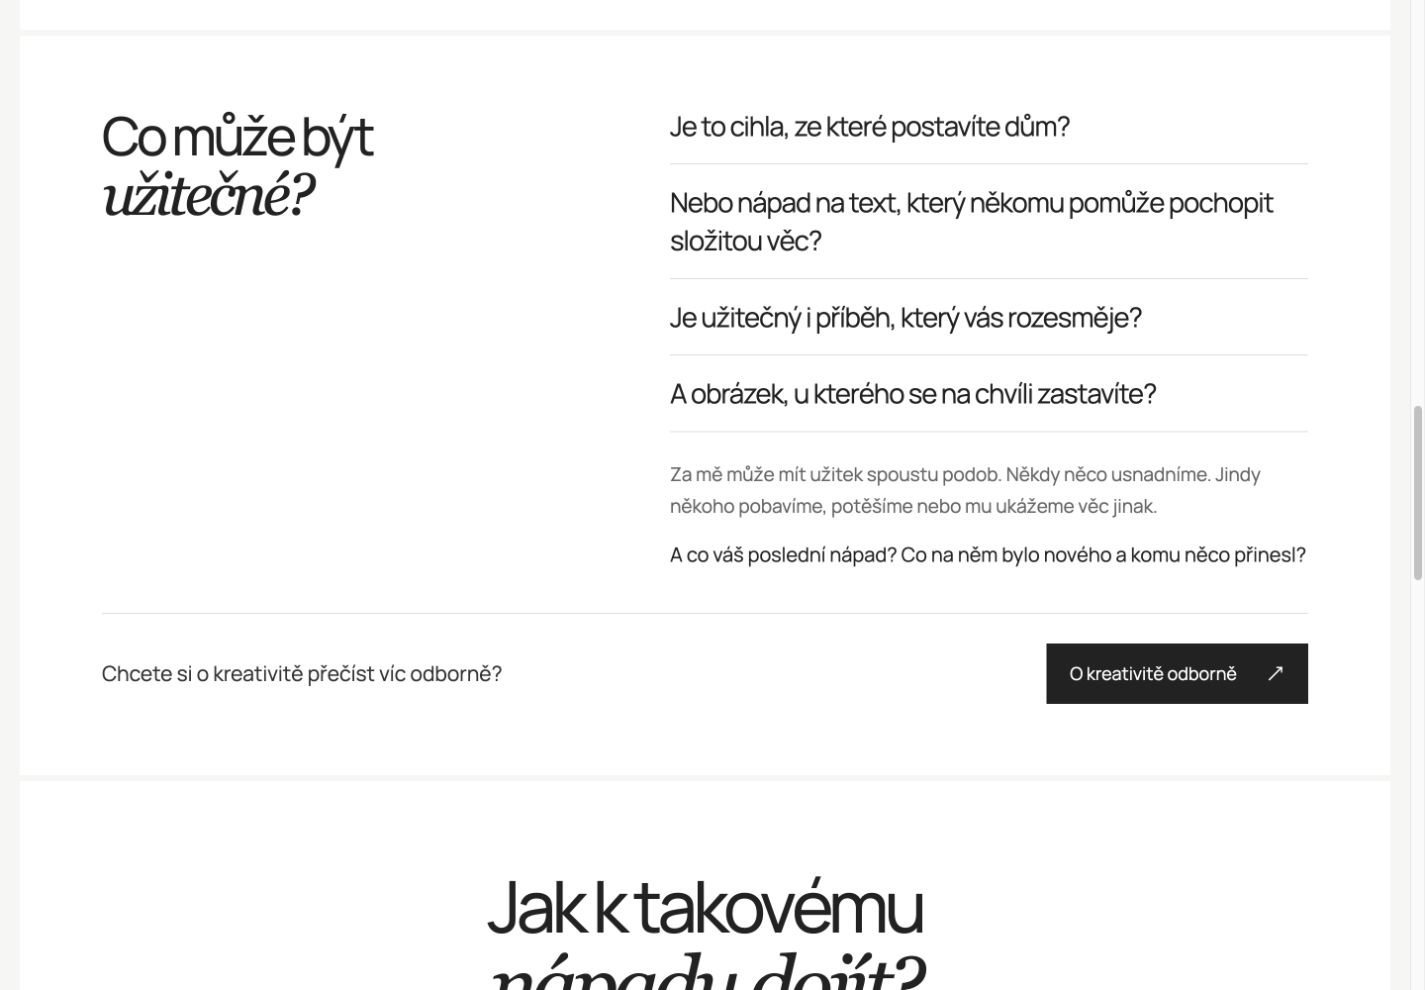
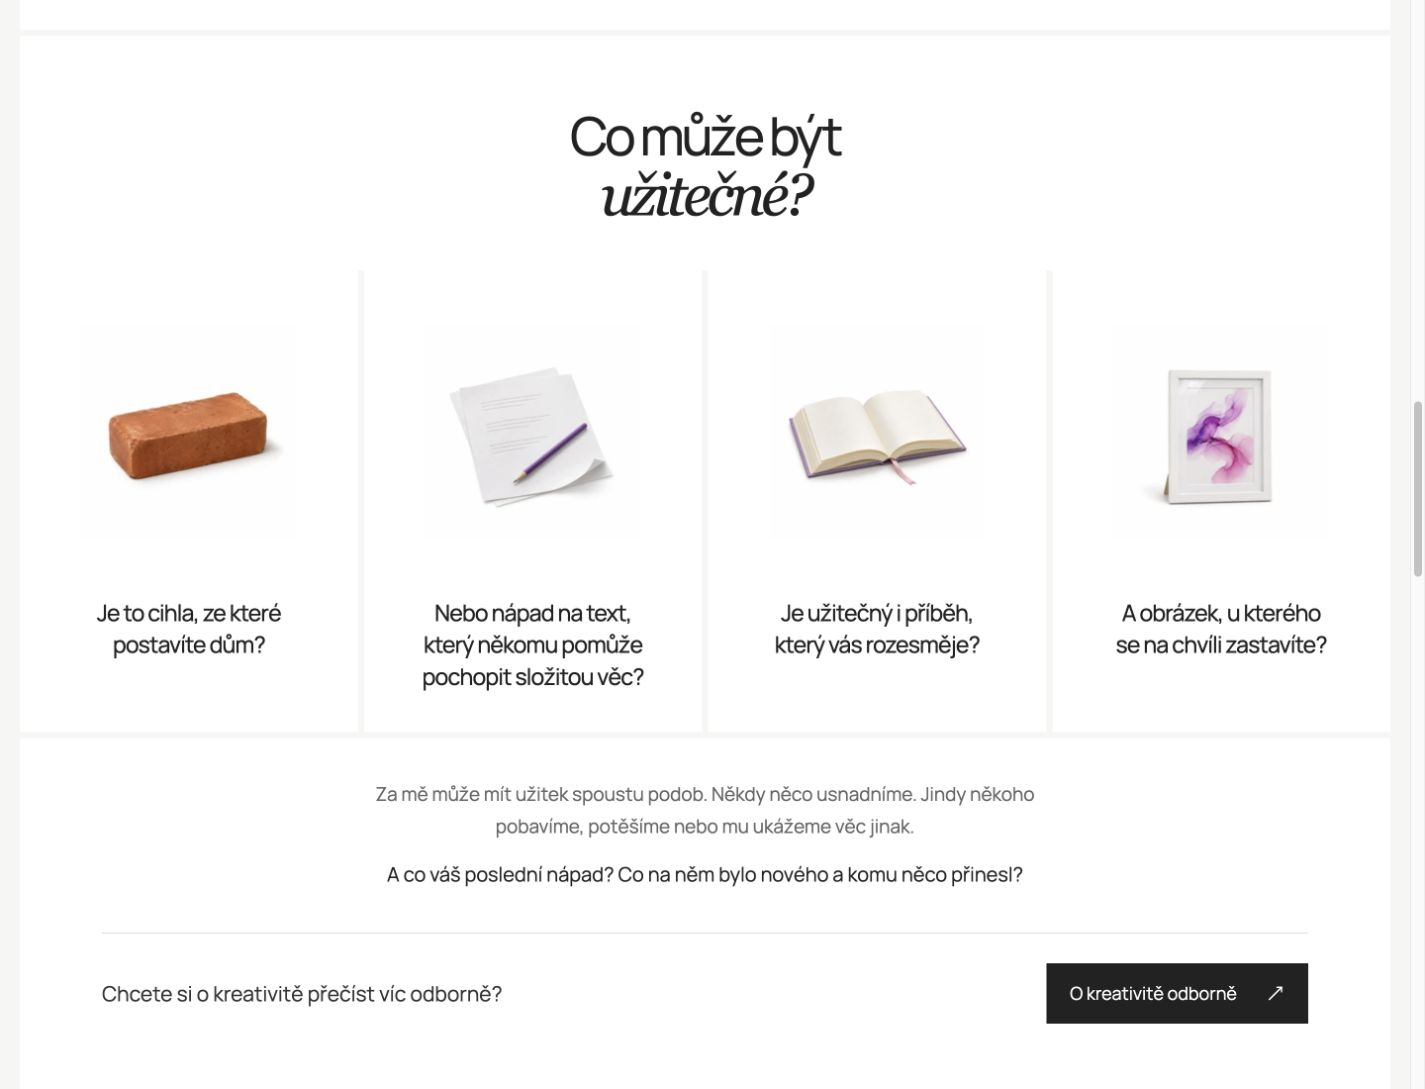
Prepracovat otazky na ctyri fotograficke dlazdice

diff --git a/docs/CREATIVITY-USEFULNESS-PHOTOS.md b/docs/CREATIVITY-USEFULNESS-PHOTOS.md
@@ -1,0 +1,42 @@
+# Čtyři podoby užitku — fotografické dlaždice
+
+Vytvořeno 8. 11. 2026 vestavěným ImageGen, čtyři samostatné generace bez vstupních obrázků. AI fotografické studie pro `/kreativec#co-je-uzitecne`, nikoli autorovy skutečné fotografie nebo ukázky vydaných knih. Čtyři fyzicky sestavitelné motivy na bílém pozadí: cihla, papír s tužkou, otevřená kniha a rám s abstraktním obrázkem. Obraz v rámečku je rovněž generovaný, nikoli Markova originální kresba. Barevnost přírodní cihly není oranžový UI akcent.
+
+Originály jsou zachované v úložišti generátoru. Do projektu zkopírované beze změny; responzivní WebP vytváří Astro. Bez ořezu, bez malých popisků, alternativní texty zůstávají. Všechny motivy mají stejný centrovaný prostor a omezenou šířku, aby kolem zůstala bílá plocha.
+
+## uzitek-cihla-v1.png
+
+- Projektový asset: `src/assets/creative-still-life/uzitek-cihla-v1.png`.
+- Původní výstup: `/Users/marekstojka/.codex/generated_images/01a1ba56-3719-7482-898a-03a733e8f283/exec-77063df6-ddbb-41fa-989b-663a0728acef.png`.
+
+### Přesný prompt
+
+Use case: product-mockup. Asset type: one photographic tile for a minimalist Czech creativity website. Create a photorealistic still-life studio photograph, square composition. Seamless pure white floor and pure white background #ffffff, no horizon line. Soft large studio light from upper left, delicate realistic contact shadow, neutral white balance, natural material textures, catalog-quality photography. Show the entire arrangement centered, occupying about 68 percent of the frame width and at most 65 percent of its height. Generous clean white space on all sides. The objects must be physically real and easy to arrange for an actual photograph. No people, hands, logos, lettering, watermark, borders, extra props, surreal floating elements, or illustration. Subject: a single ordinary solid reddish-brown clay building brick, lying horizontally on its broad side, seen in a three-quarter view slightly from above. No holes. Subtle worn corners and fine porous clay texture. Simple solid useful building material, no stack or background building.
+
+## uzitek-text-v1.png
+
+- Projektový asset: `src/assets/creative-still-life/uzitek-text-v1.png`.
+- Původní výstup: `/Users/marekstojka/.codex/generated_images/01a1ba56-3719-7482-898a-03a733e8f283/exec-586383be-81de-4e7e-a7a3-325626c1a259.png`.
+
+### Přesný prompt
+
+Use case: product-mockup. Asset type: one photographic tile for a minimalist Czech creativity website. Create a photorealistic still-life studio photograph, square composition. Seamless pure white floor and pure white background #ffffff, no horizon line. Soft large studio light from upper left, delicate realistic contact shadow, neutral white balance, natural material textures, catalog-quality photography. Show the entire arrangement centered, occupying about 68 percent of the frame width and at most 65 percent of its height. Generous clean white space on all sides. The objects must be physically real and easy to arrange for an actual photograph. No people, hands, logos, lettering, watermark, borders, extra props, surreal floating elements, or illustration. Subject: two sheets of white writing paper resting on the surface, the top sheet slightly offset and softly curling at one corner, with a single sharpened purple wooden pencil resting diagonally across them. A few small thin gray horizontal marks on the paper suggest three short paragraphs, but there is no readable text. Three-quarter camera view slightly from above. Real paper fibers and pencil wood, quiet clean still life about explaining an idea in writing.
+
+## uzitek-pribeh-v1.png
+
+- Projektový asset: `src/assets/creative-still-life/uzitek-pribeh-v1.png`.
+- Původní výstup: `/Users/marekstojka/.codex/generated_images/01a1ba56-3719-7482-898a-03a733e8f283/exec-91aa0ccd-7c37-4c7a-abbd-d28db53cc7d0.png`.
+
+### Přesný prompt
+
+Use case: product-mockup. Asset type: one photographic tile for a minimalist Czech creativity website. Create a photorealistic still-life studio photograph, square composition. Seamless pure white floor and pure white background #ffffff, no horizon line. Soft large studio light from upper left, delicate realistic contact shadow, neutral white balance, natural material textures, catalog-quality photography. Show the entire arrangement centered, occupying about 68 percent of the frame width and at most 65 percent of its height. Generous clean white space on all sides. The objects must be physically real and easy to arrange for an actual photograph. No people, hands, logos, lettering, watermark, borders, extra props, surreal floating elements, or illustration. Subject: one small open hardback book resting naturally on the white surface, with cream-white blank paper pages, a thin violet cloth cover edge and one subtle pink ribbon bookmark. Its pages gently fan and curve at the center. No text, symbols or drawings on the pages or binding. Three-quarter camera view slightly from above, full book visible. A warm playful but simple ordinary book that represents a story.
+
+## uzitek-obrazek-v1.png
+
+- Projektový asset: `src/assets/creative-still-life/uzitek-obrazek-v1.png`.
+- Původní výstup: `/Users/marekstojka/.codex/generated_images/01a1ba56-3719-7482-898a-03a733e8f283/exec-a8571abf-08e4-4c04-850b-1f31aff01fff.png`.
+
+### Přesný prompt
+
+Use case: product-mockup. Asset type: one photographic tile for a minimalist Czech creativity website. Create a photorealistic still-life studio photograph, square composition. Seamless pure white floor and pure white background #ffffff, no horizon line. Soft large studio light from upper left, delicate realistic contact shadow, neutral white balance, natural material textures, catalog-quality photography. Show the entire arrangement centered, occupying about 68 percent of the frame width and at most 65 percent of its height. Generous clean white space on all sides. The objects must be physically real and easy to arrange for an actual photograph. No people, hands, logos, lettering, watermark, borders, extra props, surreal floating elements, or illustration. Subject: one small freestanding rectangular white wooden picture frame, portrait orientation, viewed almost front-on with a very slight three-quarter angle. It rests securely on its hidden rear easel stand on the white surface. Inside the frame is a physical fine-art print with an original simple flowing abstract violet and magenta ink shape on white paper, expressive but minimal with generous margins. Subtle real wood texture, clean white mount, very soft reflection on glass. The entire frame is fully visible. This is a photograph of a real framed art print, not a flat graphic or UI mockup.
+

diff --git a/docs/DESIGN.md b/docs/DESIGN.md
@@ -722,3 +722,12 @@ Ověřeno 1440/800/390/320 px bez vodorovného přesahu, šest příkladů, zaro
 ## Mírné zvětšení papírové květiny — 8. 11. 2026
 
 Autor po zhlédnutí nové fotografie požádal ještě o její mírné zvětšení. Šířka v MagazineIntroduction.astro je nyní maximálně 500 px místo 400 px (+25 %), na mobilu 84 % dostupného prostoru / nejvýše 320 px místo 72 % / 280 px. Zdrojová fotografie, poměr na výšku, bílé pozadí a centrování zůstávají. Responzivní varianty 320/600/1000 px odpovídají novému zobrazení. Ověřeno 1440 a 390 px bez vodorovného přesahu; fotografie se zobrazuje celá. Produkční build úspěšný: 105 souborů bez chyb/varování, 81 HTML a 2608 místních URL. Náhled i kontrolní kopie synchronizované; snímky v README aktualizované. Push je součástí trvalého pokynu autora.
+
+
+## Čtyři fotografické dlaždice užitku — 8. 11. 2026
+
+Autor mění sekci „Co může být užitečné?“ na centrovaný nadpis a čtyři fotografické dlaždice vedle sebe. CreativityIntroduction.astro nyní používá čtyři nové AI fotografické studie: samostatnou cihlu, listy papíru s fialovou tužkou, otevřenou knihu s růžovou záložkou a bílý rám s fialovým/růžovým abstraktním obrázkem. Jde o fyzicky sestavitelné předměty na čistém bílém pozadí, nikoli o autorské fotografie či Markovu kresbu. Původ, projektové cesty a přesné prompty v CREATIVITY-USEFULNESS-PHOTOS.md. Bez malých popisků.
+
+Nadpis je uprostřed nad celou řadou. Bílé dlaždice odděluje původní šedá spára 6 px / 5 px mobil. Každá má stejně vysoký obrazový prostor a centrovanou fotografii nejvýše 230 px širokou; na mobilu nejvýše 210 px. Celé motivy bez ořezu, s dostatkem bílého okolí. Otázky začínají ve stejné výšce a jejich znění se nemění. Čtyři sloupce nad 1100 px, dva do 1100 px, jeden do 700 px. Pod řadou je vycentrované původní vysvětlení a zachovaný odkaz do odborné rubriky. Horní definice kreativity zůstává beze změny.
+
+Ověřeno 1440/800/390/320 px bez vodorovného přesahu, všechny čtyři fotografie načtené, shodné šířky dlaždic a zarovnané otázky. Proklik do odborné rubriky Enterem a návrat přes ClientRouter funkční. Produkční build úspěšný: 105 souborů bez chyb/varování/upozornění, 81 HTML, 2624 místních URL. Běžící náhled a kontrolní kopie obsahují stejné soubory. Snímky v README aktualizované; automatický push dle trvalého pokynu autora.

diff --git a/README.md b/README.md
@@ -462,3 +462,8 @@ Autor 8. 11. 2026 výslovně zadal hotové úpravy po kontrole posílat rovnou n
 
 
 Následné upřesnění (8. 11. 2026): papírová květina je o čtvrtinu větší na desktopu (max. 500 px), mírně větší i na mobilu (84 % / max. 320 px). [Desktop](docs/nahled-kreativec-zatisi.jpg) a [mobil](docs/nahled-kreativec-kvetina-mobile.jpg) aktualizované. Kontrola 1440/390 px a produkční build úspěšné.
+
+
+### Čtyři fotografické otázky — 8. 11. 2026
+
+[Sekce Co může být užitečné?](http://127.0.0.1:4321/kreativec#co-je-uzitecne) má nadpis uprostřed a čtyři bílé fotografické dlaždice: cihla / text / příběh / obrázek. Menší centrované motivy na bílém pozadí, zarovnané otázky, čtyři/dva/jeden sloupec podle šířky. [Desktop](docs/nahled-kreativita-uzitek-dlazdice.jpg), [mobil](docs/nahled-kreativita-uzitek-mobile.jpg), [assety a prompty](docs/CREATIVITY-USEFULNESS-PHOTOS.md). Také původní snímek nahled-kreativita-otazky.png aktualizovaný. Ověřeno 1440/800/390/320 px a klávesnicový proklik do odborné rubriky i návrat. Produkční build bez chyb: 105 souborů, 81 HTML a 2624 místních URL.
